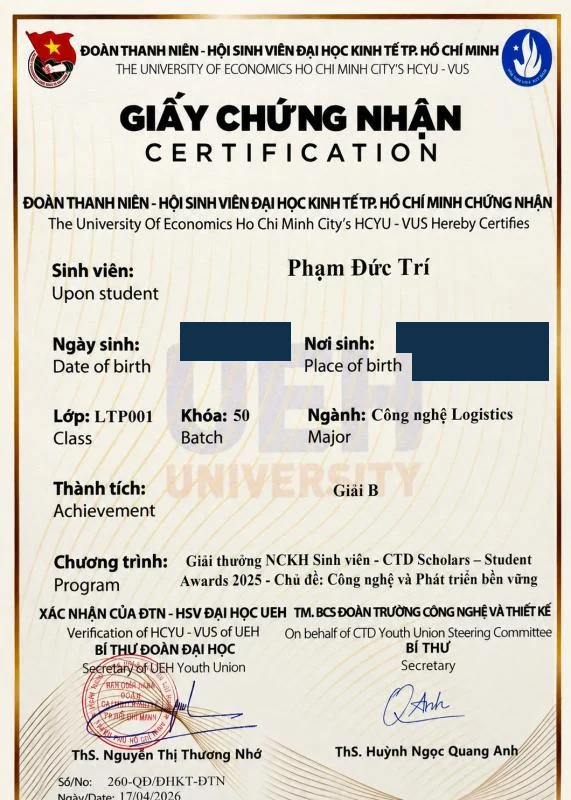
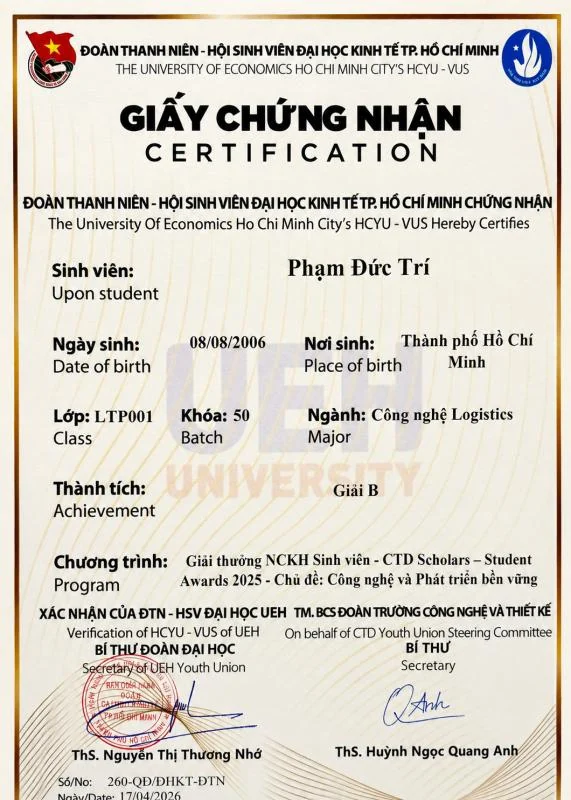
chore: show the CTD Scholars certificate unmasked (owner decision)

Changed region(s): [[0.6848, 0.375, 0.9825, 0.5], [0.2977, 0.375, 0.5359, 0.4688]]

diff --git a/src/data/awards.js b/src/data/awards.js
@@ -15,7 +15,7 @@ const awards = [
     },
     image: 'img/awards/ctd_scholars_2025.webp',
     thumb: 'img/awards/ctd_scholars_2025_thumb.webp',
-    alt: 'CTD Scholars Student Awards 2025 certificate, Second Prize, with personal details masked',
+    alt: 'CTD Scholars Student Awards 2025 certificate, Second Prize',
   },
   {
     id: 'scmission-2026',

diff --git a/scripts/process_images.py b/scripts/process_images.py
@@ -75,11 +75,7 @@ REDACTIONS = {
     "ielts 7.5.jpg": [
         (176, 392, 456, 447),    # Candidate ID value
     ],
-    "CTDSCHOLARS.jpg": [
-        (180, 322, 290, 360),    # Date of birth value
-        (396, 322, 548, 352),    # Place of birth value, line 1
-        (412, 350, 548, 380),    # Place of birth value, line 2
-    ],
+    # CTDSCHOLARS.jpg: published unmasked (owner decision 2026-10-08).
 }
 
 
